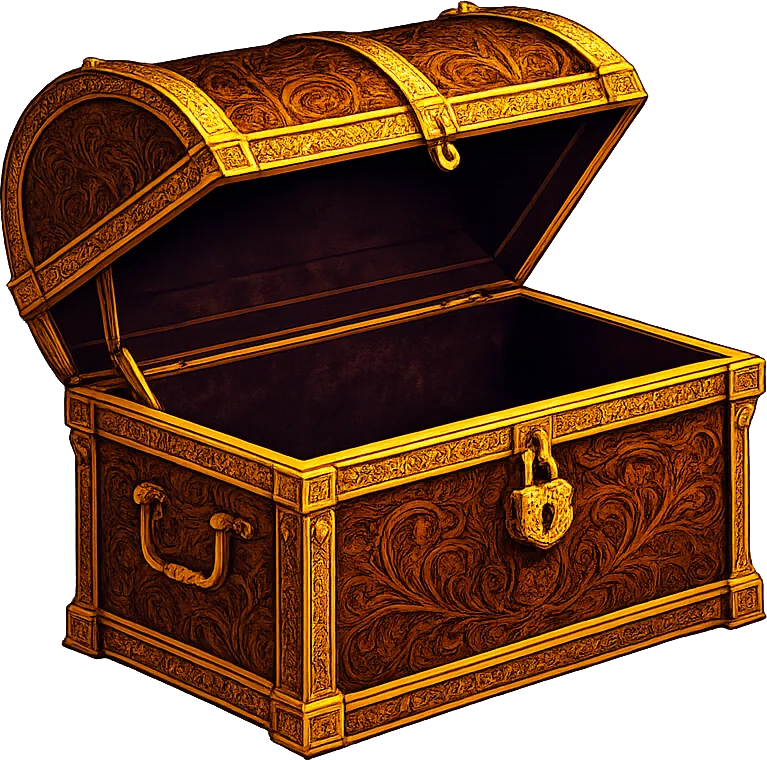
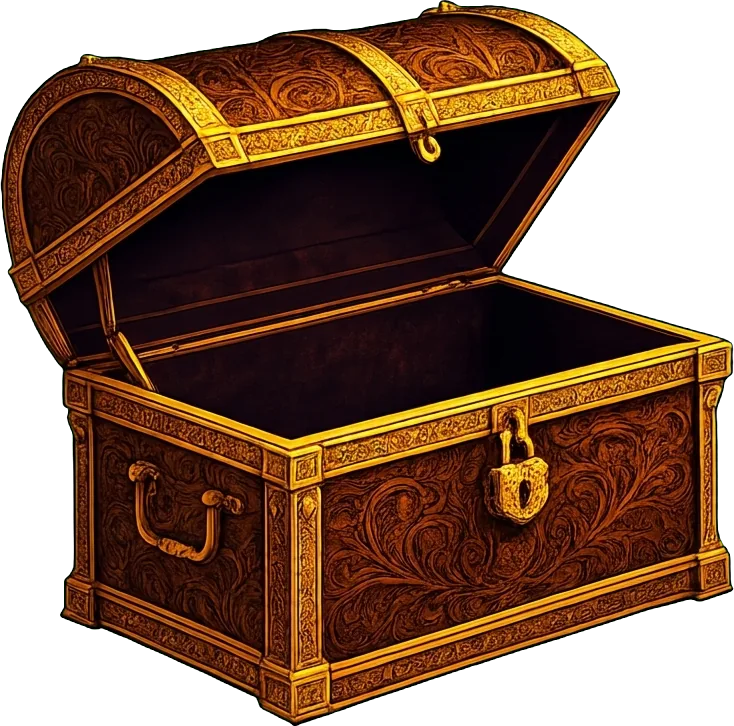
feat(chests): centred, stronger light; no shadows; tier-true loot; Ascension steps pay chests
Owner review 2026-10-30:
- The rays rose a fifth of the stage left of the chest: the centre is now
  taken from the chest's own rectangle on screen, not the canvas box.
- Rarity light saturated (the pale tints read as one white) and brighter.
- The loot stage sits on the vault painting instead of a dark rectangle
  (isolation removed so the screen-blended clips really blend).
- The five ElevenLabs stills were redrawn by Gemini without the baked shadow
  (and are 30-40% smaller).
- A first-clear or Ascension chest holds only its own region's loot; a Deep
  chest keeps the player's highest region.
- Each new Ascension step pays a chest: Bronze 50, Silver 30, Gold 15,
  Ancient 5; the dev ladder reset removes them again.

Claude-Session: https://claude.ai/code/session_01LdsgKxnXWDAhNPjfdaVG9r

Changed region(s): [[0.0, 0.0, 1.0, 1.0], [0.7193, 0.2121, 0.7793, 0.303]]

diff --git a/client_web/src/lib/ui/ChestStage.svelte b/client_web/src/lib/ui/ChestStage.svelte
@@ -86,8 +86,15 @@
     const w = (canvas.width = canvas.clientWidth * dpr);
     const h = (canvas.height = canvas.clientHeight * dpr);
     const [cr, cg, cb] = RARITY_LIGHT[r];
-    const cx = w / 2;
-    const cy = h * 0.55;
+    // Modul: THE CENTRE COMES FROM THE CHEST ON SCREEN, not from the canvas's
+    // own box. Measured 2026-10-30 on the Chest screen: the rays rose about a
+    // fifth of the stage to the LEFT of the chest, because the canvas's laid-out
+    // box was not the 150% its CSS asks for inside the modal. Whatever the
+    // layout does, the chest's rectangle is where the light belongs.
+    const canvasBox = canvas.getBoundingClientRect();
+    const chestBox = chestEl?.getBoundingClientRect() ?? canvasBox;
+    const cx = (chestBox.left + chestBox.width / 2 - canvasBox.left) * dpr;
+    const cy = (chestBox.top + chestBox.height * 0.45 - canvasBox.top) * dpr;
     const rays = rayCount(r);
     const sparks: Spark[] = [];
     const n = particleCount(r, reduceMotion(), navigator.hardwareConcurrency ?? 0);
@@ -108,7 +115,8 @@
       for (let i = 0; i < rays; i++) {
         const a = (i / rays) * Math.PI * 2 + t / 6000;
         const g = ctx.createRadialGradient(cx, cy, 0, cx, cy, reach);
-        g.addColorStop(0, `rgba(${cr},${cg},${cb},${0.28 * strength})`);
+        g.addColorStop(0, `rgba(${cr},${cg},${cb},${0.5 * strength})`);
+        g.addColorStop(0.35, `rgba(${cr},${cg},${cb},${0.22 * strength})`);
         g.addColorStop(1, `rgba(${cr},${cg},${cb},0)`);
         ctx.fillStyle = g;
         ctx.beginPath();
@@ -173,7 +181,6 @@
     aspect-ratio: 1;
     display: grid;
     place-items: end center;
-    isolation: isolate;
   }
   .dust {
     position: absolute;

diff --git a/client_web/src/lib/ui/LootChestShelf.svelte b/client_web/src/lib/ui/LootChestShelf.svelte
@@ -138,7 +138,15 @@
   .actions { display: flex; gap: 6px; flex-wrap: wrap; justify-content: flex-end; }
   .actions button { min-height: 44px; }
   .odds { grid-column: 1 / -1; margin: 0; padding-left: 18px; }
-  .stage-wrap { width: min(80vw, 380px); margin: 0 auto; }
+  /* The vault the cosmetic chests open in, so a loot chest stands in a room
+     rather than on a dark rectangle. */
+  .stage-wrap {
+    width: min(80vw, 380px);
+    margin: 0 auto;
+    border-radius: 12px;
+    overflow: hidden;
+    background: #0d0c10 url('/chest/bg-pc.jpg') center 60% / cover;
+  }
   .reveal { width: min(92vw, 420px); text-align: center; }
   .reveal ul { list-style: none; padding: 0; margin: 8px 0 12px; display: grid; gap: 4px; }
   .reveal .piece { font-weight: 600; }

diff --git a/client_web/src/lib/ui/chestStage.ts b/client_web/src/lib/ui/chestStage.ts
@@ -30,12 +30,13 @@ export function chestStills(art: ChestArt, rarity: ChestRarity): { closed: strin
 /**
  * The light of each rarity, as an RGB triple the canvas tints with. Common is
  * a warm white rather than grey, so even the plainest chest opens in light.
+ * Saturated on 2026-10-30 (owner): the pale tints read as one white light.
  */
 export const RARITY_LIGHT: Record<ChestRarity, readonly [number, number, number]> = {
-  1: [255, 236, 200],
-  2: [140, 200, 255],
-  3: [190, 120, 255],
-  4: [255, 190, 80],
+  1: [255, 226, 170],
+  2: [70, 170, 255],
+  3: [180, 90, 255],
+  4: [255, 170, 40],
 };
 
 /**

diff --git a/server/FolkIdle.Server/Domain/Economy/LootChestEngine.cs b/server/FolkIdle.Server/Domain/Economy/LootChestEngine.cs
@@ -17,6 +17,7 @@ namespace FolkIdle.Server.Domain.Economy
         Dev = 0,
         DeepFloor = 1,
         BossFirstClear = 2,
+        AscensionStep = 3,
     }
 
     /// <summary>
@@ -92,6 +93,16 @@ namespace FolkIdle.Server.Domain.Economy
         public static LootChestTier BossFirstClearChest(int region)
             => region >= 5 ? LootChestTier.Gold : LootChestTier.Silver;
 
+        /// <summary>
+        /// An Ascension step's chest: Bronze 50%, Silver 30%, Gold 15%, Ancient 5%
+        /// (owner, 2026-10-30: the lowest tier most often, the highest least).
+        /// </summary>
+        public static LootChestTier RollAscensionChest(Random rng)
+        {
+            int r = rng.Next(100);
+            return r < 50 ? LootChestTier.Bronze : r < 80 ? LootChestTier.Silver : r < 95 ? LootChestTier.Gold : LootChestTier.Ancient;
+        }
+
         /// <summary>Unopened chests by tier, for the shelf.</summary>
         public static async Task<Dictionary<LootChestTier, int>> CountsAsync(FolkIdleDbContext db, long playerId)
         {
@@ -134,7 +145,12 @@ namespace FolkIdle.Server.Domain.Economy
             foreach (var chest in chests)
             {
                 int room = Math.Max(0, MaxDiamondsPerWeek - week.DiamondsThisWeek);
-                var roll = LootChestRules.Roll((LootChestTier)chest.Tier, chest.Region, highest, perMinute, room, rng);
+                // Modul: A CHEST HOLDS ITS OWN TIER'S LOOT (owner, 2026-10-30). A first
+                // clear or an Ascension step pays the region it fell in - no
+                // materials from further ahead; a Deep chest was granted at the
+                // player's highest region already, so it pays that.
+                int top = (LootChestSource)chest.Source == LootChestSource.DeepFloor ? highest : chest.Region;
+                var roll = LootChestRules.Roll((LootChestTier)chest.Tier, chest.Region, top, perMinute, room, rng);
 
                 foreach (var (item, quantity) in roll.Materials)
                 {

diff --git a/server/FolkIdle.Server/Domain/Combat/BossAscensionEngine.cs b/server/FolkIdle.Server/Domain/Combat/BossAscensionEngine.cs
@@ -92,7 +92,14 @@ namespace FolkIdle.Server.Domain.Combat
                 }
 
                 paid.Add(new AscensionReward(region, s, titleSlug, BossAscensionRegistry.TitleName(region, s), frameId, frameName));
+
+                // Loot chests (owner, 2026-10-30): every new step pays a chest of a
+                // random tier, the lowest most often, holding this region's loot.
+                Domain.Economy.LootChestEngine.Stage(db, playerId,
+                    Domain.Economy.LootChestEngine.RollAscensionChest(Random.Shared), region,
+                    Domain.Economy.LootChestSource.AscensionStep, utcNow);
             }
+            await db.SaveChangesAsync();
 
             await db.Database.ExecuteSqlRawAsync(
                 "UPDATE boss_ascension_progress SET \"HighestStep\" = {0}, \"UpdatedAtUtc\" = {1} " +
@@ -144,6 +151,10 @@ namespace FolkIdle.Server.Domain.Combat
             }
             await db.Database.ExecuteSqlRawAsync(
                 "DELETE FROM boss_ascension_progress WHERE \"PlayerId\" = {0} AND \"Region\" = {1}", playerId, (short)region);
+            // The chests the climb paid go with it, so a check leaves no shelf behind.
+            await db.Database.ExecuteSqlRawAsync(
+                "DELETE FROM \"LootChests\" WHERE \"PlayerId\" = {0} AND \"Source\" = {1} AND \"Region\" = {2}",
+                playerId, (short)Domain.Economy.LootChestSource.AscensionStep, (short)region);
             if (step > 0)
             {
                 await db.Database.ExecuteSqlRawAsync(

diff --git a/server/FolkIdle.Server.Tests/LootChestRulesTests.cs b/server/FolkIdle.Server.Tests/LootChestRulesTests.cs
@@ -105,5 +105,16 @@ namespace FolkIdle.Server.Tests
             Assert.Equal(LootChestTier.Silver, LootChestEngine.BossFirstClearChest(1));
             Assert.Equal(LootChestTier.Gold, LootChestEngine.BossFirstClearChest(5));
         }
+
+        [Fact]
+        public void AnAscensionChestIsMostOftenTheLowestTier()
+        {
+            var rng = new Random(9);
+            var counts = new int[5];
+            for (int i = 0; i < 20_000; i++) counts[(int)LootChestEngine.RollAscensionChest(rng)]++;
+            Assert.True(counts[1] > counts[2] && counts[2] > counts[3] && counts[3] > counts[4]);
+            Assert.InRange(counts[1] / 20_000.0, 0.47, 0.53);
+            Assert.InRange(counts[4] / 20_000.0, 0.035, 0.065);
+        }
 }
 }
